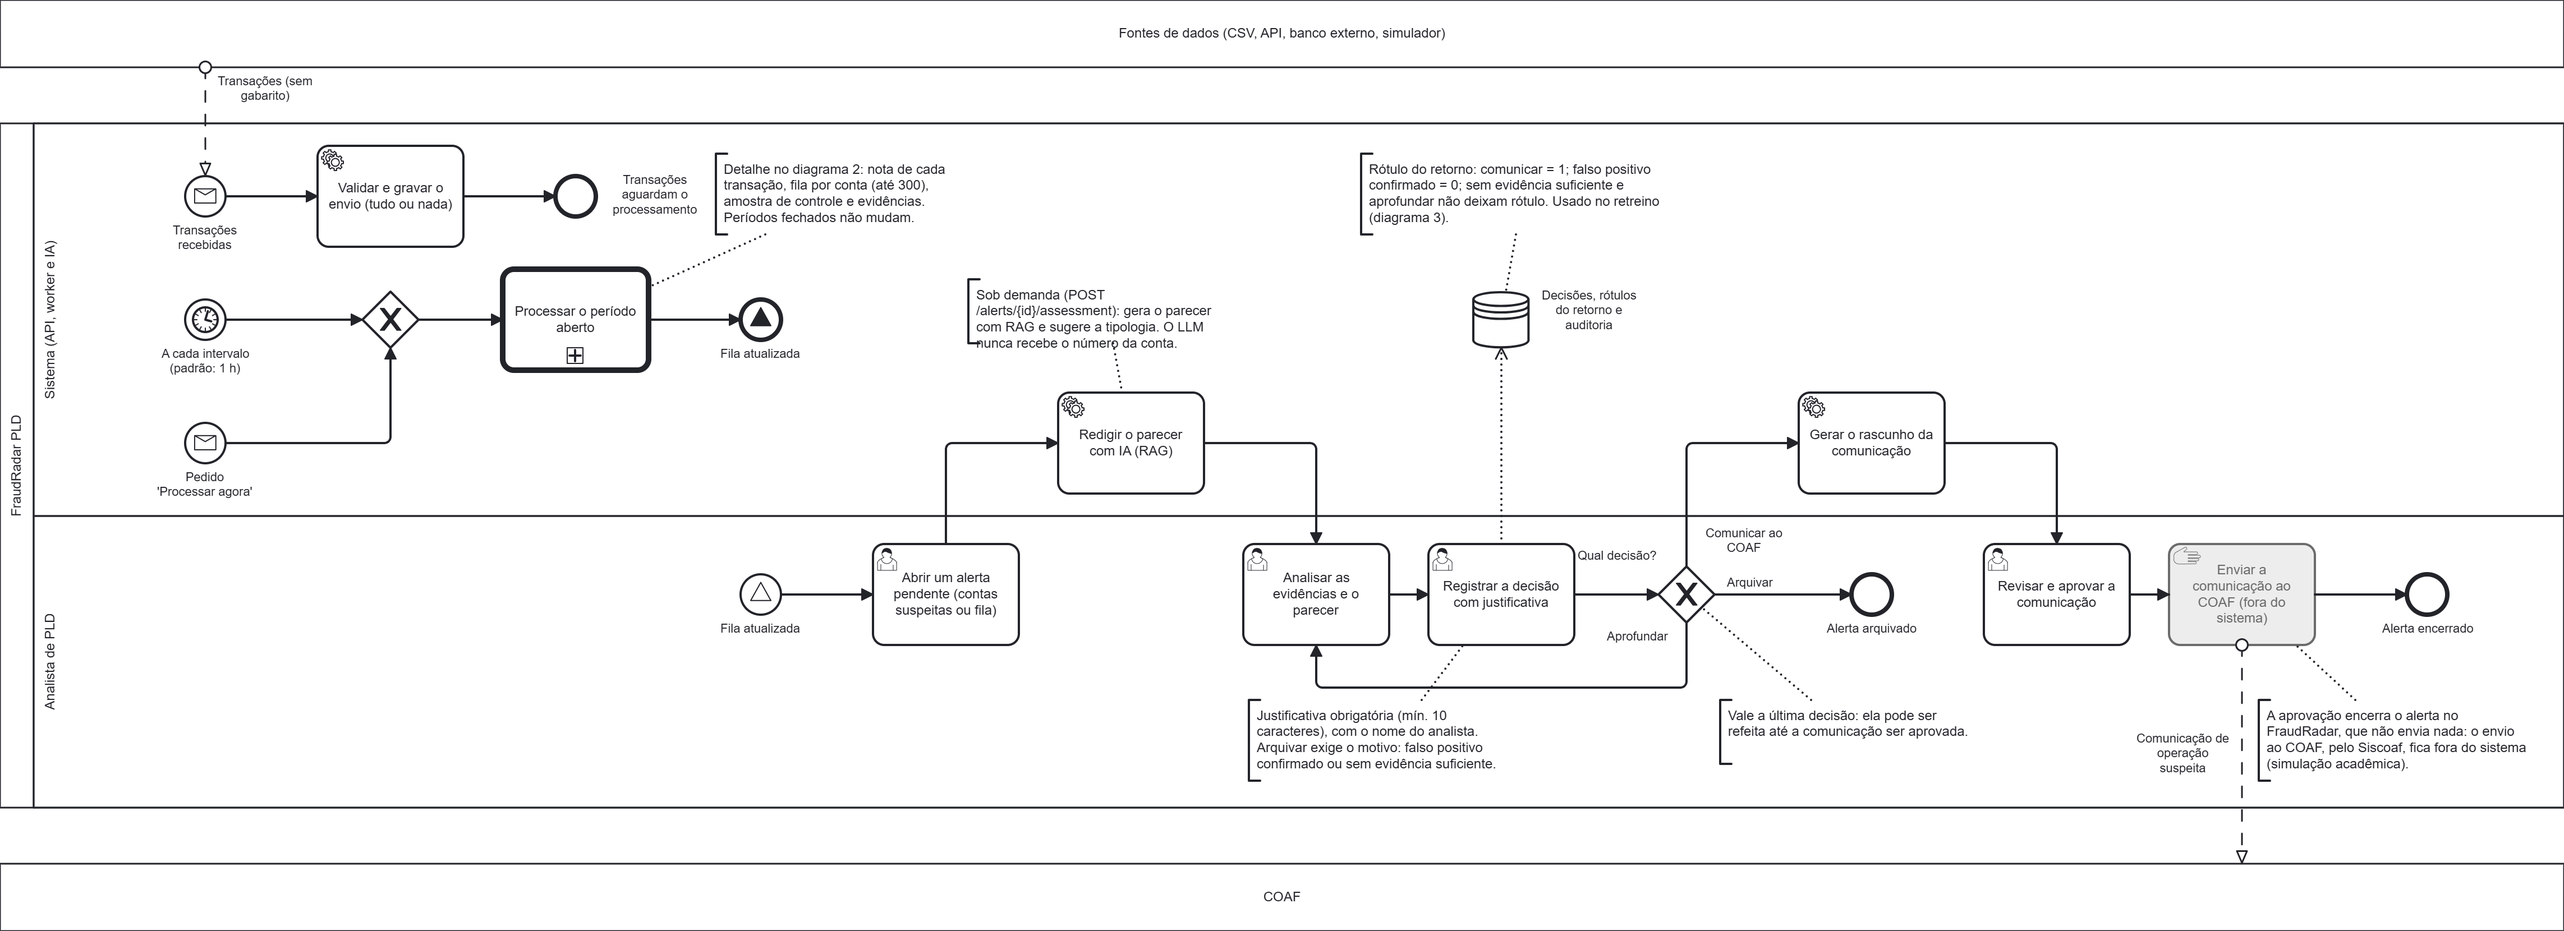
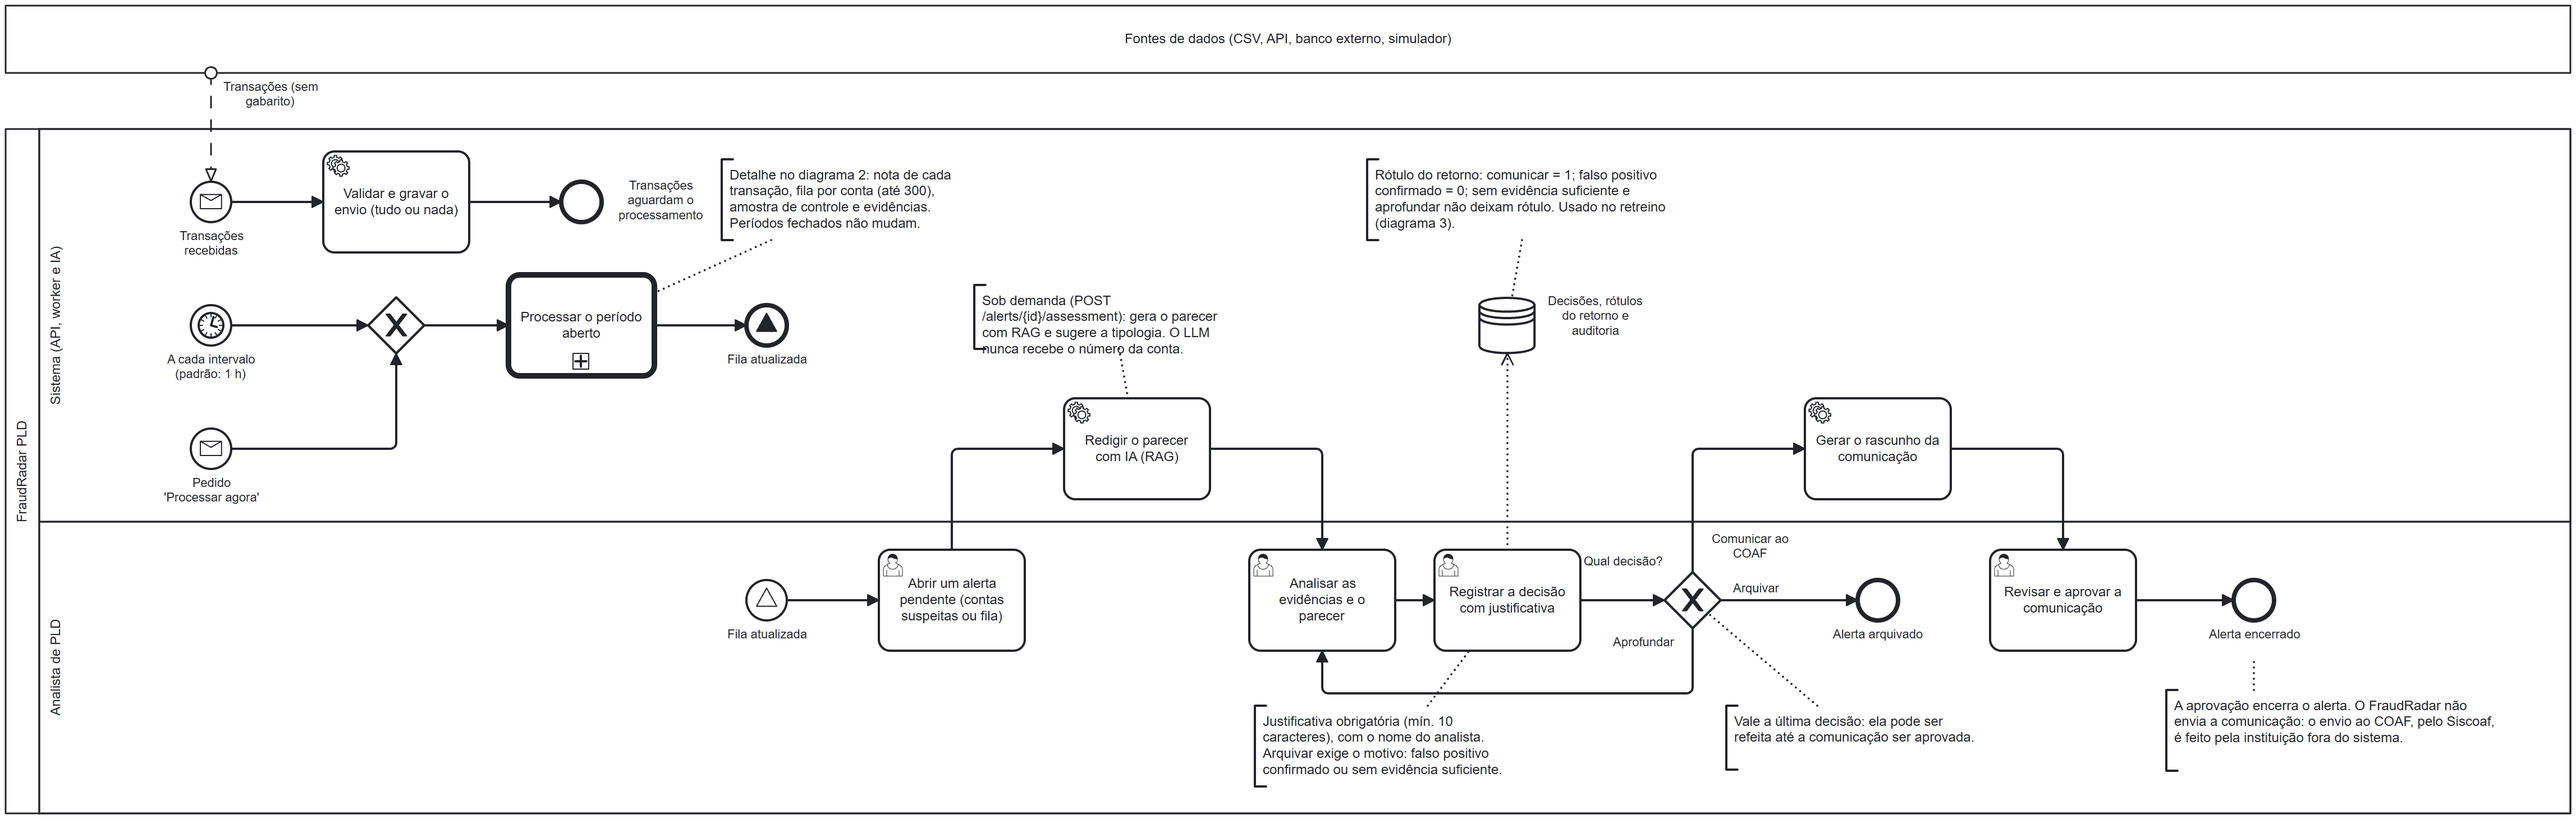
docs: BPMN 1 sem o envio ao COAF
O FraudRadar só aprova a comunicação e encerra o alerta; o envio pelo Siscoaf é da
instituição, fora do sistema. Sai a raia do COAF, a tarefa manual de envio e o texto
"simulação acadêmica". SVG e PNG exportados de novo.

Prompt: docs/vibe-coding/prompts/170-pedro-bpmn-sem-coaf.md

diff --git a/docs/bpmn/README.md b/docs/bpmn/README.md
@@ -22,7 +22,6 @@ editar o `.bpmn`, exporte os dois de novo.
 |---|---|
 | Tarefa com ícone de pessoa | feita pelo analista nas telas |
 | Tarefa com engrenagem | feita pelo sistema (API, worker ou IA) |
-| Tarefa com mão | feita por uma pessoa fora do sistema |
 | Tarefa com tabela | regra de negócio aplicada pelo sistema |
 | Borda grossa com `+` | o detalhe está em outro diagrama |
 | Caixa grande com `≡` embaixo | repete em ordem, uma vez para cada item (aqui, cada semana) |
@@ -35,7 +34,6 @@ editar o `.bpmn`, exporte os dois de novo.
 | Linha tracejada com seta | mensagem entre participantes |
 | Texto com colchete | anotação |
 | Tarefa **amarela** | planejada, ainda não existe |
-| Tarefa **cinza** | fora do sistema |
 
 ## 1. Monitoramento PLD
 
@@ -50,8 +48,9 @@ editar o `.bpmn`, exporte os dois de novo.
 - O analista registra a decisão com justificativa (pelo menos 10 caracteres), e o nome dele fica
   gravado. Arquivar exige o motivo: falso positivo confirmado ou sem evidência suficiente.
   Aprofundar volta para a análise.
-- Comunicar gera o rascunho, que o analista revisa e aprova. A aprovação encerra o alerta. O envio
-  ao COAF fica fora do sistema: o FraudRadar é uma simulação acadêmica e não envia nada.
+- Comunicar gera o rascunho, que o analista revisa e aprova. A aprovação encerra o alerta. O
+  FraudRadar não envia a comunicação: o envio ao COAF, pelo Siscoaf, é feito pela instituição fora
+  do sistema, por isso o COAF não aparece no diagrama.
 - A decisão pode ser refeita até a comunicação ser aprovada; vale a última. Cada decisão grava o
   rótulo do retorno dos analistas (usado no diagrama 3) e a auditoria.
 

diff --git a/docs/vibe-coding/prompts/171-claude-conta2-bpmn-sem-coaf-result.md b/docs/vibe-coding/prompts/171-claude-conta2-bpmn-sem-coaf-result.md
@@ -1,0 +1,21 @@
+---
+id: 171
+area: docs
+autor: Claude Code (conta 2, do Pedro)
+pai: 170
+data: 2026-11-21
+---
+
+# Resultado: BPMN 1 sem o COAF
+
+- `docs/bpmn/01-aml-monitoring.bpmn`: saíram a raia do COAF, a tarefa manual "Enviar a
+  comunicação ao COAF (fora do sistema)" e a mensagem até o COAF. "Revisar e aprovar a
+  comunicação" agora leva direto a "Alerta encerrado", como no código (`approve_report` só aprova
+  e trava o alerta; não envia nada). A anotação diz que o envio pelo Siscoaf é feito pela
+  instituição fora do sistema, sem "simulação acadêmica".
+- `.svg` e `.png` exportados de novo com o bpmn-js 17.11.1 (o PNG em escala 2, como antes).
+- `docs/bpmn/README.md`: o texto do diagrama 1 acompanha a mudança, e a legenda perdeu "tarefa com
+  mão" e "tarefa cinza", que nenhum diagrama usa mais.
+- Fora do repositório: o parágrafo do pitch trocou "once a week" (o período aberto é recalculado
+  a cada hora ou sob demanda) e "report to COAF" (o sistema não envia) por "keeps a short weekly
+  queue" e "approve a suspicious activity report for COAF".

diff --git a/docs/vibe-coding/prompts/170-pedro-bpmn-sem-coaf.md b/docs/vibe-coding/prompts/170-pedro-bpmn-sem-coaf.md
@@ -1,0 +1,15 @@
+---
+id: 170
+area: docs
+autor: Pedro
+destino: Claude Code (conta 2)
+pai: 168
+data: 2026-11-21
+---
+
+# BPMN 1 sem o envio ao COAF
+
+Depois da revisão dos diagramas (a anotação do envio ao COAF ainda dizia "simulação acadêmica",
+texto que o PR #34 tirou do sistema), Pedro pediu:
+
+> c:\codigo\pessoal\fraudradar\docs\bpmn vai ter que gerar ai tambem, o bpmn novo, do sem o coaf
